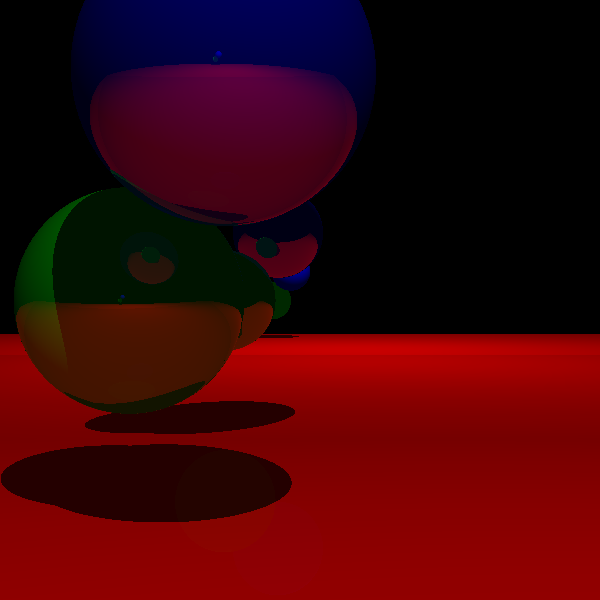
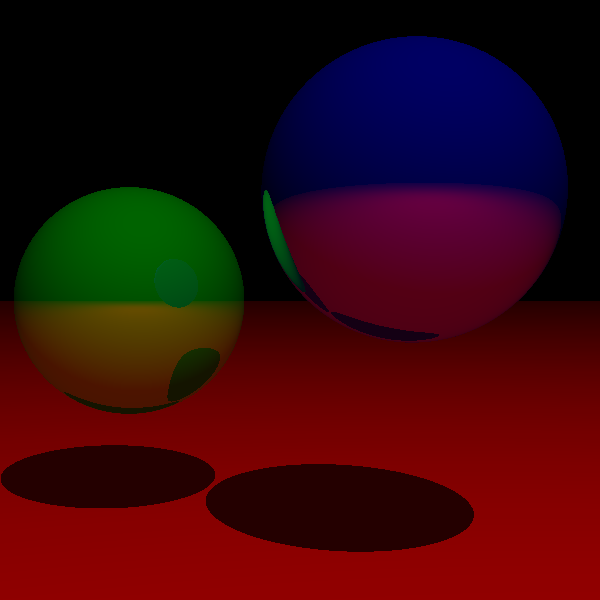
Added application loop and event handling.

diff --git a/src/main.cpp b/src/main.cpp
@@ -13,9 +13,15 @@
 using namespace std;
 
 
+// Takes care of SDL initialization
 SDL_Window* init(int widthPx, int heightPx);
+
+// Finds all intersections of a ray with a scene
 list<Intersection> intersection(Vector3& origin, Vector3& dir, list<Object*>& scn);
-RGB ray(Vector3& origin, Vector3& dir, list<Object*>& scn, list<Light>& lights, double ambient, int depth);
+
+// Finds ray color
+RGB ray(Vector3& origin, Vector3& dir, list<Object*>& scn, list<Light>& lights, 
+        double ambient, int depth);
 
 
 
@@ -28,7 +34,7 @@ int main()
 	const double ambient = 0.2;
 
 	int eyeDist  = 300;
-	int depth = 3;
+	int depth = 2;
 	// -----------------------
 	
 	// Compute image height and width in abstract scene units
@@ -48,11 +54,9 @@ int main()
 	list<Object*> scene;
 
 	// --- Adding objects to the scene ---
+	scene.push_front(new  Plane(Vector3(0,1,0),     100, (RGB){200,0,0}, 0.1));
 	scene.push_front(new Sphere(Vector3(-75,0,100),  50, (RGB){0,200,0}, 0.5));
 	scene.push_front(new Sphere(Vector3(-25,75,0),   50, (RGB){0,0,200}, 0.5));
-	scene.push_front(new  Plane(Vector3(0,1,0),     100, (RGB){200,0,0}, 0.1));
-	scene.push_front(new  Plane(Vector3(0,0,-1),    350, (RGB){0,0,0},     1));
-	scene.push_front(new  Plane(Vector3(0,0,1),     650, (RGB){0,0,0},     1));
 	// -----------------------------------
 
 	list<Light> lights;
@@ -64,36 +68,79 @@ int main()
 	lights.push_front((Light){Vector3(100,500,-500), 100});
 	// ----------------------------------
 
-	// Shoot rays to render the scene
-	printf("Rendering scene...\n");
-	for (int i = 0; i < heightPx; i++)
+	// Main application loop
+	SDL_Event eventHandler;
+	const Uint8* keyboard = SDL_GetKeyboardState(NULL); // Valid throughout lifetime of application
+	bool exitFlag = false;
+	while (!exitFlag)
 	{
-		for (int j = 0; j < widthPx; j++)
+		// Handle events
+		while (SDL_PollEvent( &eventHandler ) != 0)
 		{
-			Vector3 pixPos = Vector3(-widthImg / 2 + (float)j*stepSize, heightImg / 2 - (float)i*stepSize, 0);
-			Vector3 dir = (pixPos - eyePos).norm();
+			switch (eventHandler.type)
+			{
+				case SDL_QUIT:
+					exitFlag = true;
+					break;
+				case SDL_KEYDOWN:
+					switch (eventHandler.key.keysym.sym)
+					{
+						case SDLK_q:
+							exitFlag = true;
+							break;
+						case SDLK_w:
+							printf("Writing image to file...\n");
+							img->writePPM("test.bmp");
+							printf("Done!\n");
+							break;
+					}
+					break;
+			}
 
-			img->setPixel(j, i, ray(eyePos, dir, scene, lights, ambient, depth));
-			
 		}
+		
+		// Handle keyboard
+		if (keyboard[SDL_SCANCODE_J])
+		{
+			scene.front()->translate(Vector3(0,-1,0));
+		}
+		if (keyboard[SDL_SCANCODE_K])
+		{
+			scene.front()->translate(Vector3(0,1,0));
+		}
+		if (keyboard[SDL_SCANCODE_H])
+		{
+			scene.front()->translate(Vector3(-1,0,0));
+		}
+		if (keyboard[SDL_SCANCODE_L])
+		{
+			scene.front()->translate(Vector3(1,0,0));
+		}
+
+		// Shoot rays to render the scene
+		printf("Rendering scene...\n");
+		for (int i = 0; i < heightPx; i++)
+		{
+			for (int j = 0; j < widthPx; j++)
+			{
+				Vector3 pixPos = Vector3(-widthImg / 2 + (float)j*stepSize, 
+						heightImg / 2 - (float)i*stepSize, 0);
+				Vector3 dir = (pixPos - eyePos).norm();
+
+				img->setPixel(j, i, ray(eyePos, dir, scene, lights, ambient, depth));
+
+			}
+		}
+
+		// Writing final image to screen buffer
+		img->blitToSurface(gSurface);
+		SDL_UpdateWindowSurface(gWindow);
+
 	}
-
-	// Writing final image to screen buffer
-	img->blitToSurface(gSurface);
-	SDL_UpdateWindowSurface(gWindow);
-	
-	// Write final image to file
-	printf("Writing image to file...\n");
-	img->writePPM("test.bmp");
-	printf("Done!\n");
-
-	// Prevent window from closing instantly
-	SDL_Delay(5000);
 
 	return 0;
 }
 
-// Takes care of SDL initialization
 SDL_Window* init(int widthPx, int heightPx)
 {
 	//Initialize SDL
@@ -179,7 +226,7 @@ list<Intersection> intersection(Vector3& origin, Vector3& dir, list<Object*>& sc
 
 	for (auto obj : scn)
 	{
-		for ( auto x : obj->intersect(origin, dir)) candidates.push_front(x);
+		for (auto x : obj->intersect(origin, dir)) candidates.push_front(x);
 	}
 
 	if (candidates.size() < 1) return result;

diff --git a/src/object.cpp b/src/object.cpp
@@ -5,7 +5,12 @@ Vector3 Object::getPos()
 	return pos;
 }
 
+void Object::translate(Vector3 mov)
+{
+	this->pos = Vector3(this->pos.x + mov.x, this->pos.y + mov.y, this->pos.z + mov.z);
+}
+
 std::list<Intersection> Object::intersect(Vector3& origin, Vector3& direction)
 {
-		return std::list<Intersection>();
+	return std::list<Intersection>();
 }

diff --git a/src/object.h b/src/object.h
@@ -22,6 +22,7 @@ protected:
 	double reflectiveness;
 public:
 	Vector3 getPos();
+	void translate(Vector3 mov);
 	virtual std::list<Intersection> intersect (Vector3& origin, Vector3& direction);
 
 };

diff --git a/README.md b/README.md
@@ -1,8 +1,8 @@
 A ray tracing engine I have been working on as I learn C++, still in its early stages.
 
-# Compiling
-## Linux
+## Compiling
+### Linux
 Simply move to the root directory and run the command ``make``.
 
-# Sample output
+## Sample output
 ![Sample output](sample.png)
